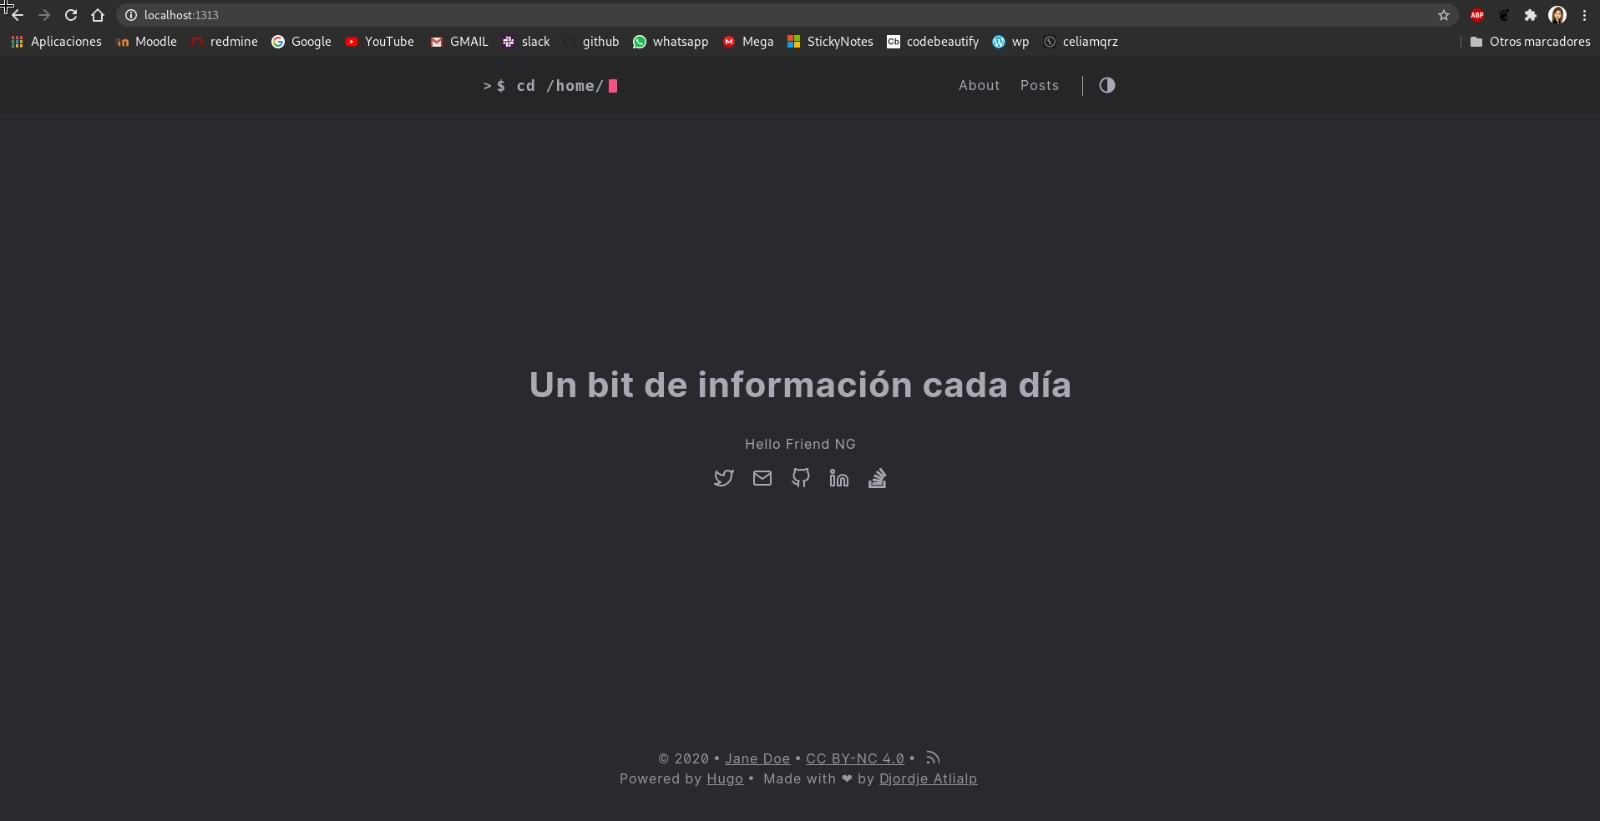
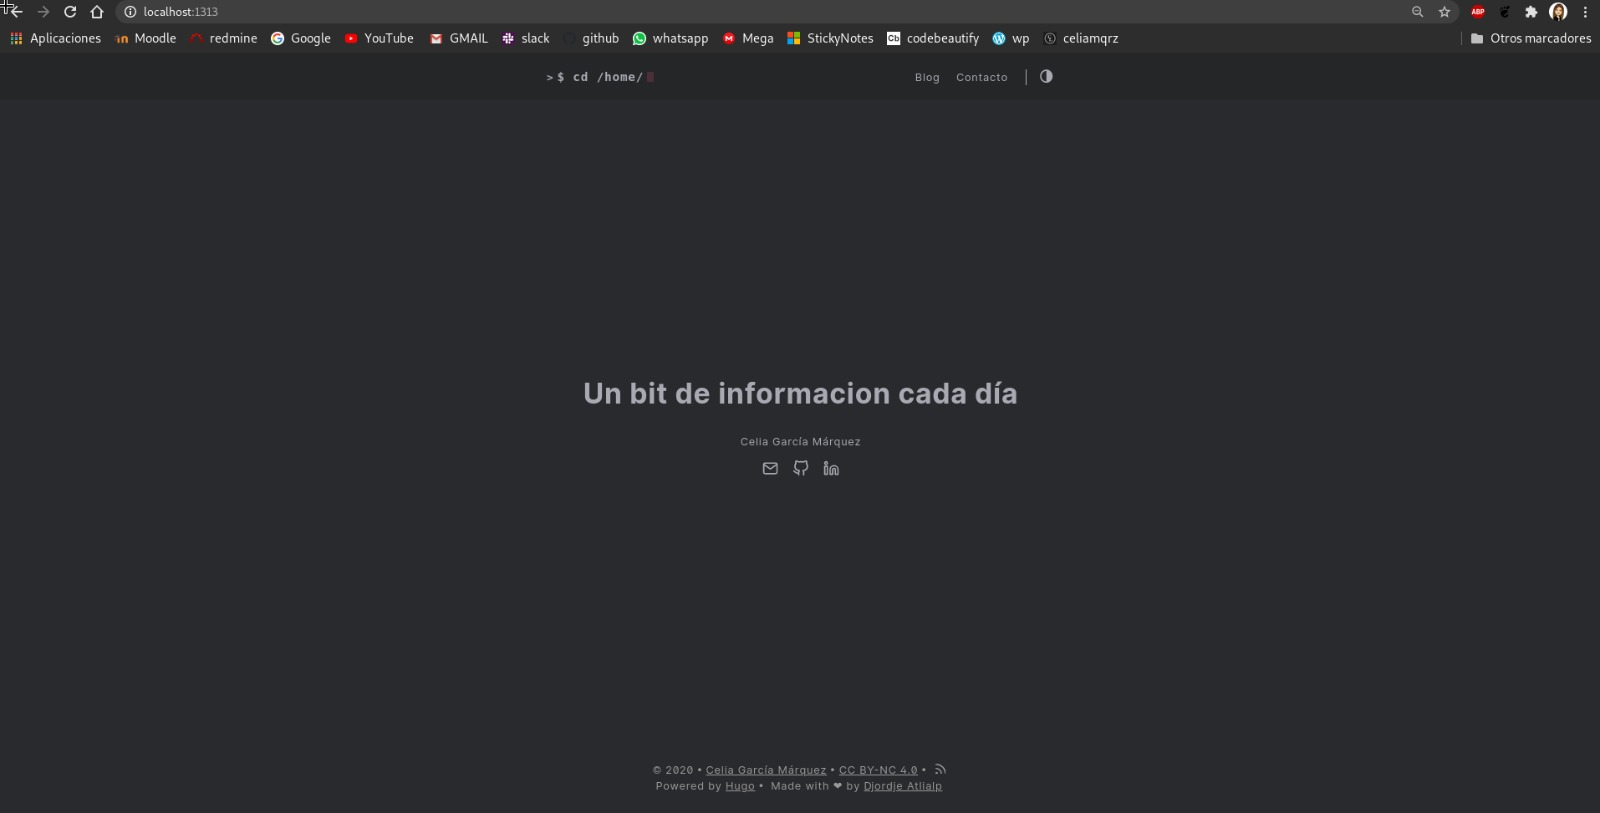
modificaciones

diff --git a/configuracion_hugo_temas_contenido.md b/configuracion_hugo_temas_contenido.md
@@ -7,14 +7,15 @@
 En esta [página](https://themes.gohugo.io/) hay muchos temas disponibles para hugo. Vamos a descargar el que más nos guste y se adapte a nuestros intereses y lo agregamos al directorio **themes**.
 
 ```sh
+celiagm@debian:~/unbitdeinformacioncadadia/themes$ git init
+Inicializado repositorio Git vacío en /home/celiagm/unbitdeinformacioncadadia/themes/.git/
+
 celiagm@debian:~/unbitdeinformacioncadadia/themes$ git submodule add https://github.com/rhazdon/hugo-theme-hello-friend-ng.git
 Clonando en '/home/celiagm/unbitdeinformacioncadadia/themes/hugo-theme-hello-friend-ng'...
 remote: Enumerating objects: 1890, done.
 remote: Total 1890 (delta 0), reused 0 (delta 0), pack-reused 1890
-Recibiendo objetos: 100% (1890/1890), 6.77 MiB | 6.64 MiB/s, listo.
+Recibiendo objetos: 100% (1890/1890), 6.77 MiB | 7.92 MiB/s, listo.
 Resolviendo deltas: 100% (1026/1026), listo.
-celiagm@debian:~/unbitdeinformacioncadadia/themes$ ls
-hugo-theme-hello-friend-ng
 
 ```
 
@@ -88,13 +89,12 @@ theme = "hugo-theme-hello-friend-ng"
 
   [[params.social]]
     name = "email"
-    url  = "mailto:cg.marquez@gmail.com"
+    url  = "mailto:cg.marquez95@gmail.com"
 
   [[params.social]]
     name = "github"
     url  = "https://github.com/CeliaGMqrz"
     
-
   [[params.social]]
     name = "linkedin"
     url  = "https://www.linkedin.com/in/cgmarquez/"
